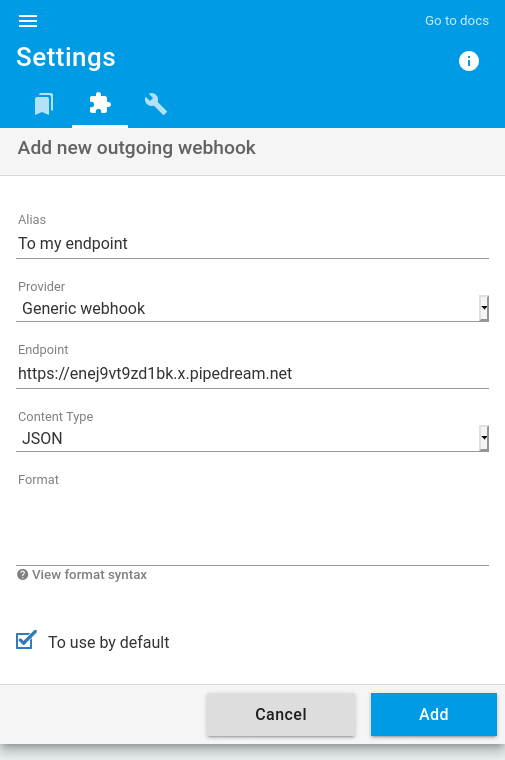
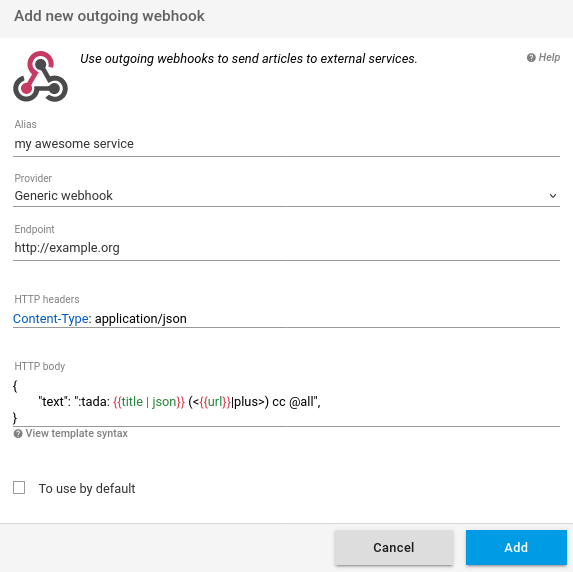
doc(integration): update generic webhook doc

diff --git a/ui/src/components/highlight/fasttemplate.js b/ui/src/components/highlight/fasttemplate.js
@@ -1,7 +1,7 @@
 
 export default function() {
   const FILTERS = ['urlquery', 'base64', 'json' ]
-  const PROPS = ['id', 'title', 'text', 'html', 'url', 'image']
+  const PROPS = ['id', 'title', 'text', 'html', 'url', 'image', 'href']
   const FILTER = {
     begin: /\|\s*\w+:?/,
     keywords: { name: FILTERS },

diff --git a/docs/content/fr/integrations/outgoing-webhook/generic/index.md b/docs/content/fr/integrations/outgoing-webhook/generic/index.md
@@ -8,34 +8,68 @@ weight = 1
 
 Un webhook générique est un simple point d'accès HTTP accessible en POST.
 
-## Format
+Vous pouvez personnaliser l'appel du webhook en spécifiant les en-têtes et le contenu du corps de la requête HTTP.
 
-Par défaut, l'article est envoyé en JSON selon le format suivant:
+## En-têtes
+
+Par défaut, readflow configure le type de contenu :
+
+```http
+Content-Type: application/json
+```
+
+Vous pouvez modifier ou ajouter vos propres en-têtes. Ex :
+
+```http
+Content-Type: text/plain
+X-API-Key: 5ebe2294ecd0e0f08eab7690d2a6ee69
+```
+
+## Le corps
+
+Par défaut, l'article est envoyé en JSON selon le format suivant :
 
 ```json
 {
-  "href": "L'URL de l'article sur readflow",
   "title": "Le titre",
-  "text": "Le text de l'article (le résumé)",
-  "html": "Le contenu HTML de l'article",
-  "url": "L'URL d'origine de larticle",
-  "image": "L'URL de l'illustration de l'image",
-  "published_at": "La date de publication de l'article"
+  "text": "Le text (le résumé)",
+  "html": "Le contenu HTML",
+  "href": "L'URL de l'article sur readflow",
+  "url": "L'URL d'origine",
+  "image": "L'URL de l'illustration",
+  "published_at": "La date de publication"
 }
 ```
 
-Il est possible de personnaliser le contenu envoyé.
+> Si le coprs est vide, readflow force `Content-Type` à `application/json`
 
-Vous pouvez spécifier son type:
+Il est possible de personnaliser le contenu via un template.
 
-- JSON
-- HTML
-- ou Texte
+### Templating
 
-Et vous pouvez spécifier son format en utilisant la syntaxe des [templates de Golang](https://golang.org/pkg/text/template/).
+Le moteur de template est très simple et permet de manipuler les propriétés de l'article :
 
-Pour faire simple, vous avez accès aux propriétés du document JSON ci-dessus mais en les préfixant avec un point et une majuscule le tout entre deux accolades.
-Par exemple, la propriété `title` est accessible avec la syntaxe `{{.Title}}`.
+- `{{title}}`: Le titre
+- `{{text}}`: Le texte
+- `{{html}}`: Le contenu HTML
+- `{{href}}`: L'URL de l'article sur readflow
+- `{{url}}`: L'URL d'origine
+- `{{image}}`: L'URL de l'illustration
+- `{{published_at}}`: La date de publication
+
+Il est également possible de modifier une propriété avec une fonction de filtre :
+
+- `{{ title | json }}`: echapement JSON de la valeur
+- `{{ title | urlquery }}`: echapement URL de la valeur
+- `{{ title | bas64 }}`: encodeage en base 64 de la valeur
+
+Exemple:
+
+```django
+{
+	"text": ":tada: {{title | json}} (<{{url}}|plus>) cc @all",
+}
+```
 
 ## Cinématique
 
@@ -51,6 +85,8 @@ La page d'ajout de webhook s'ouvre:
 1. Saisissez un alias
 1. Choisissez `generic` comme fournisseur de service
 1. Configurez l'URL du webhook
+1. Configurer les en-têtes HTTP
+1. Personnaliser le corps de la requête HTTP selon les besoins
 1. Cochez la case si vous souhaitez en faire votre service par défaut
 
 Une fois configuré, vous verrez une nouvelle entrée dans le menu contextuel des articles:

diff --git a/docs/content/en/integrations/outgoing-webhook/generic/index.md b/docs/content/en/integrations/outgoing-webhook/generic/index.md
@@ -8,34 +8,68 @@ weight = 1
 
 A generic webhook is a simple HTTP access point using POST.
 
-## Format
+You can customize the webhook call by specifying the headers and body content of the HTTP request.
 
-By default, the article is sent as a JSON with the following format:
+## Headers
+
+By default readflow setup the content type:
+
+```http
+Content-Type: application/json
+```
+
+You can modify or add your own headers. Ex:
+
+```http
+Content-Type: text/plain
+X-API-Key: 5ebe2294ecd0e0f08eab7690d2a6ee69
+```
+
+## The body
+
+By default, the article is sent in JSON according to the following format:
 
 ```json
 {
-  "href": "article URL on readflow",
   "title": "The title",
   "text": "Text content (the summary)",
   "html": "HTML content",
-  "url": "origin URL of the article",
-  "image": "URL of the article illustration",
-  "published_at": "article publication date"
+  "href": "URL on readflow",
+  "url": "Origin URL",
+  "image": "Illustration URL",
+  "published_at": "Publication date"
 }
 ```
 
-It is possible to personalize the content sent.
+> If the content is empty, readflow forces the `Content-Type` to `application/json`.
 
-You can specify its type:
+It is possible to customize the content via a template.
 
-- JSON
-- HTML
-- or Text
+### Templating
 
-And you can specify its format using the [Golang templates](https://golang.org/pkg/text/template/) syntax.
+The template engine is very simple and allows to manipulate the properties of the article:
 
-To make it simple, you can access the JSON document properties above but prefix them with a dot and a capital letter between two brackets.
-For example, the `title` property can be accessed with the `{{.Title}}` syntax.
+- `{{title}}`: The title
+- `{{text}}`: Text content
+- `{{html}}`: HTML contenu
+- `{{href}}`: URL on readflow
+- `{{url}}`: Origin URL
+- `{{image}}`: Illustration URL
+- `{{published_at}}`: Publication date
+
+It is also possible to modify a property with a filter function:
+
+- `{{ title | json }}`: JSON value escaping
+- `{{ title | urlquery }}`: URL value escaping
+- `{{ title | bas64 }}`: base 64 encoding
+
+Example:
+
+```django
+{
+	"text": ":tada: {{title | json}} (<{{url}}|more>) cc @all",
+}
+```
 
 ## Kinematics
 
@@ -51,6 +85,8 @@ The outgoing webhook creation page opens:
 1. Enter an alias
 1. Choose `generic` as provider
 1. Configure the webhook URL
+1. Configure HTTP headers
+1. Customize the HTTP request body as needed
 1. Click on the checkbox if you want to make it your default service
 
 Once configured, you will see a new entry in the context menu of the article:
